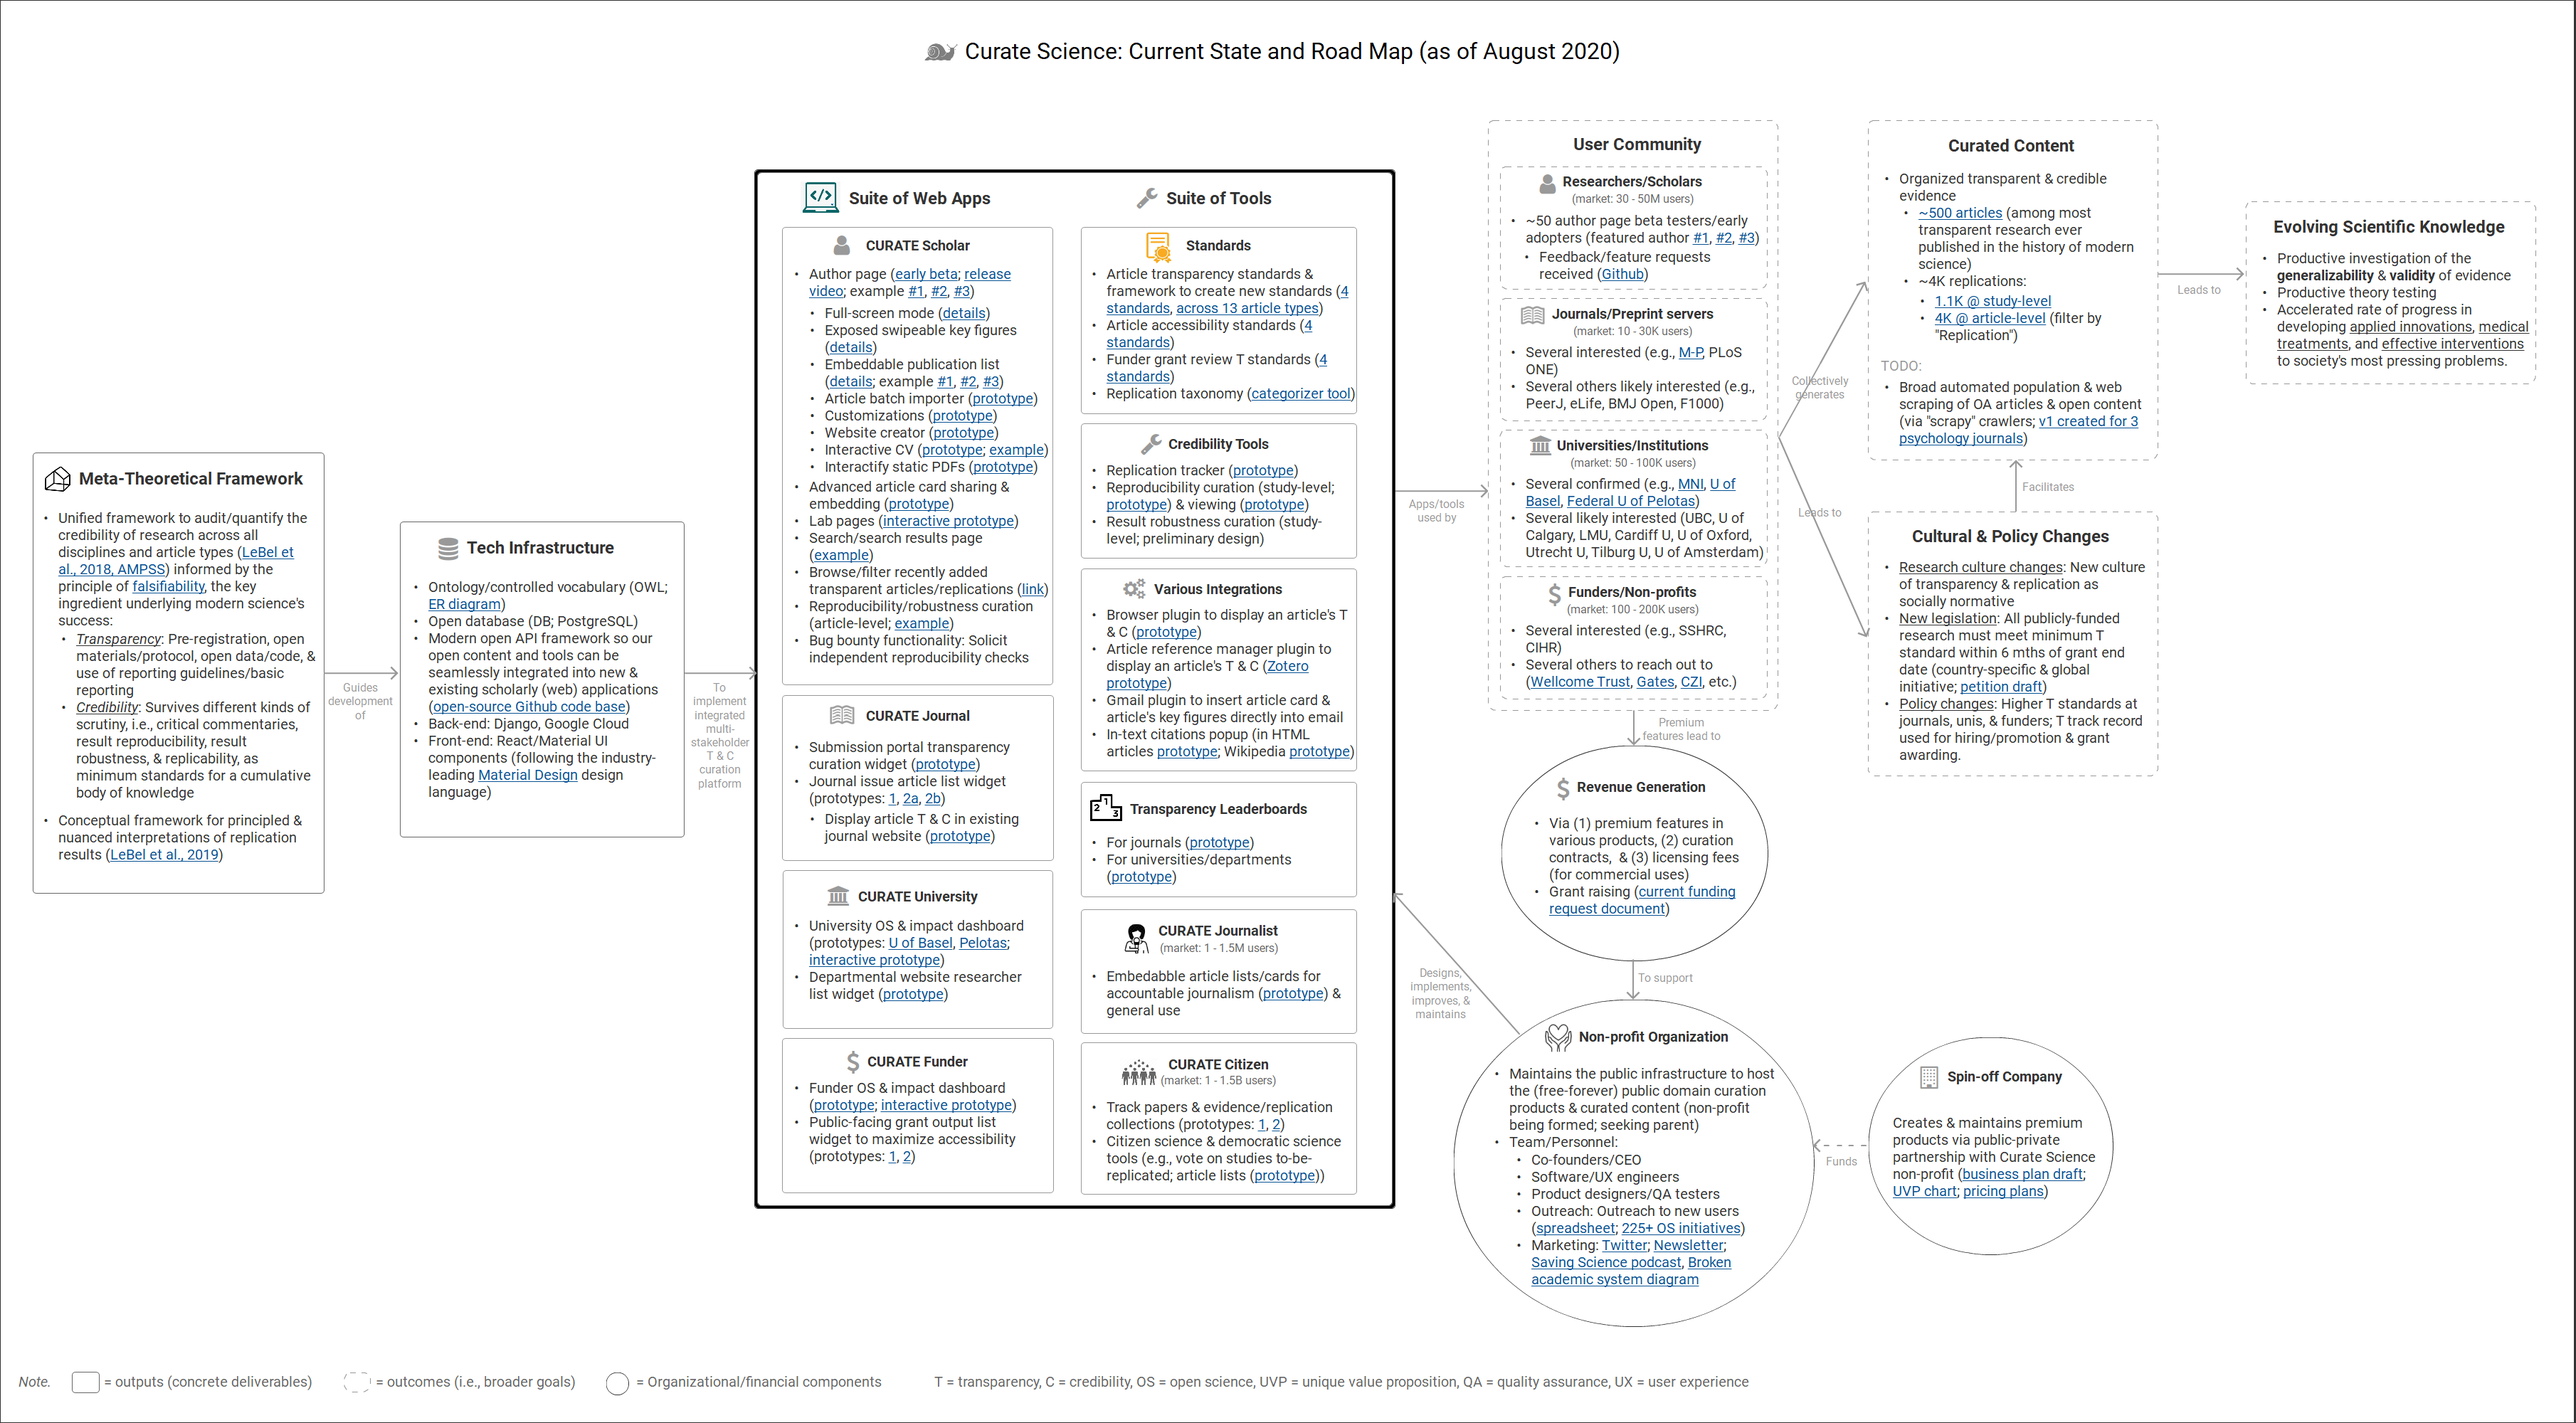
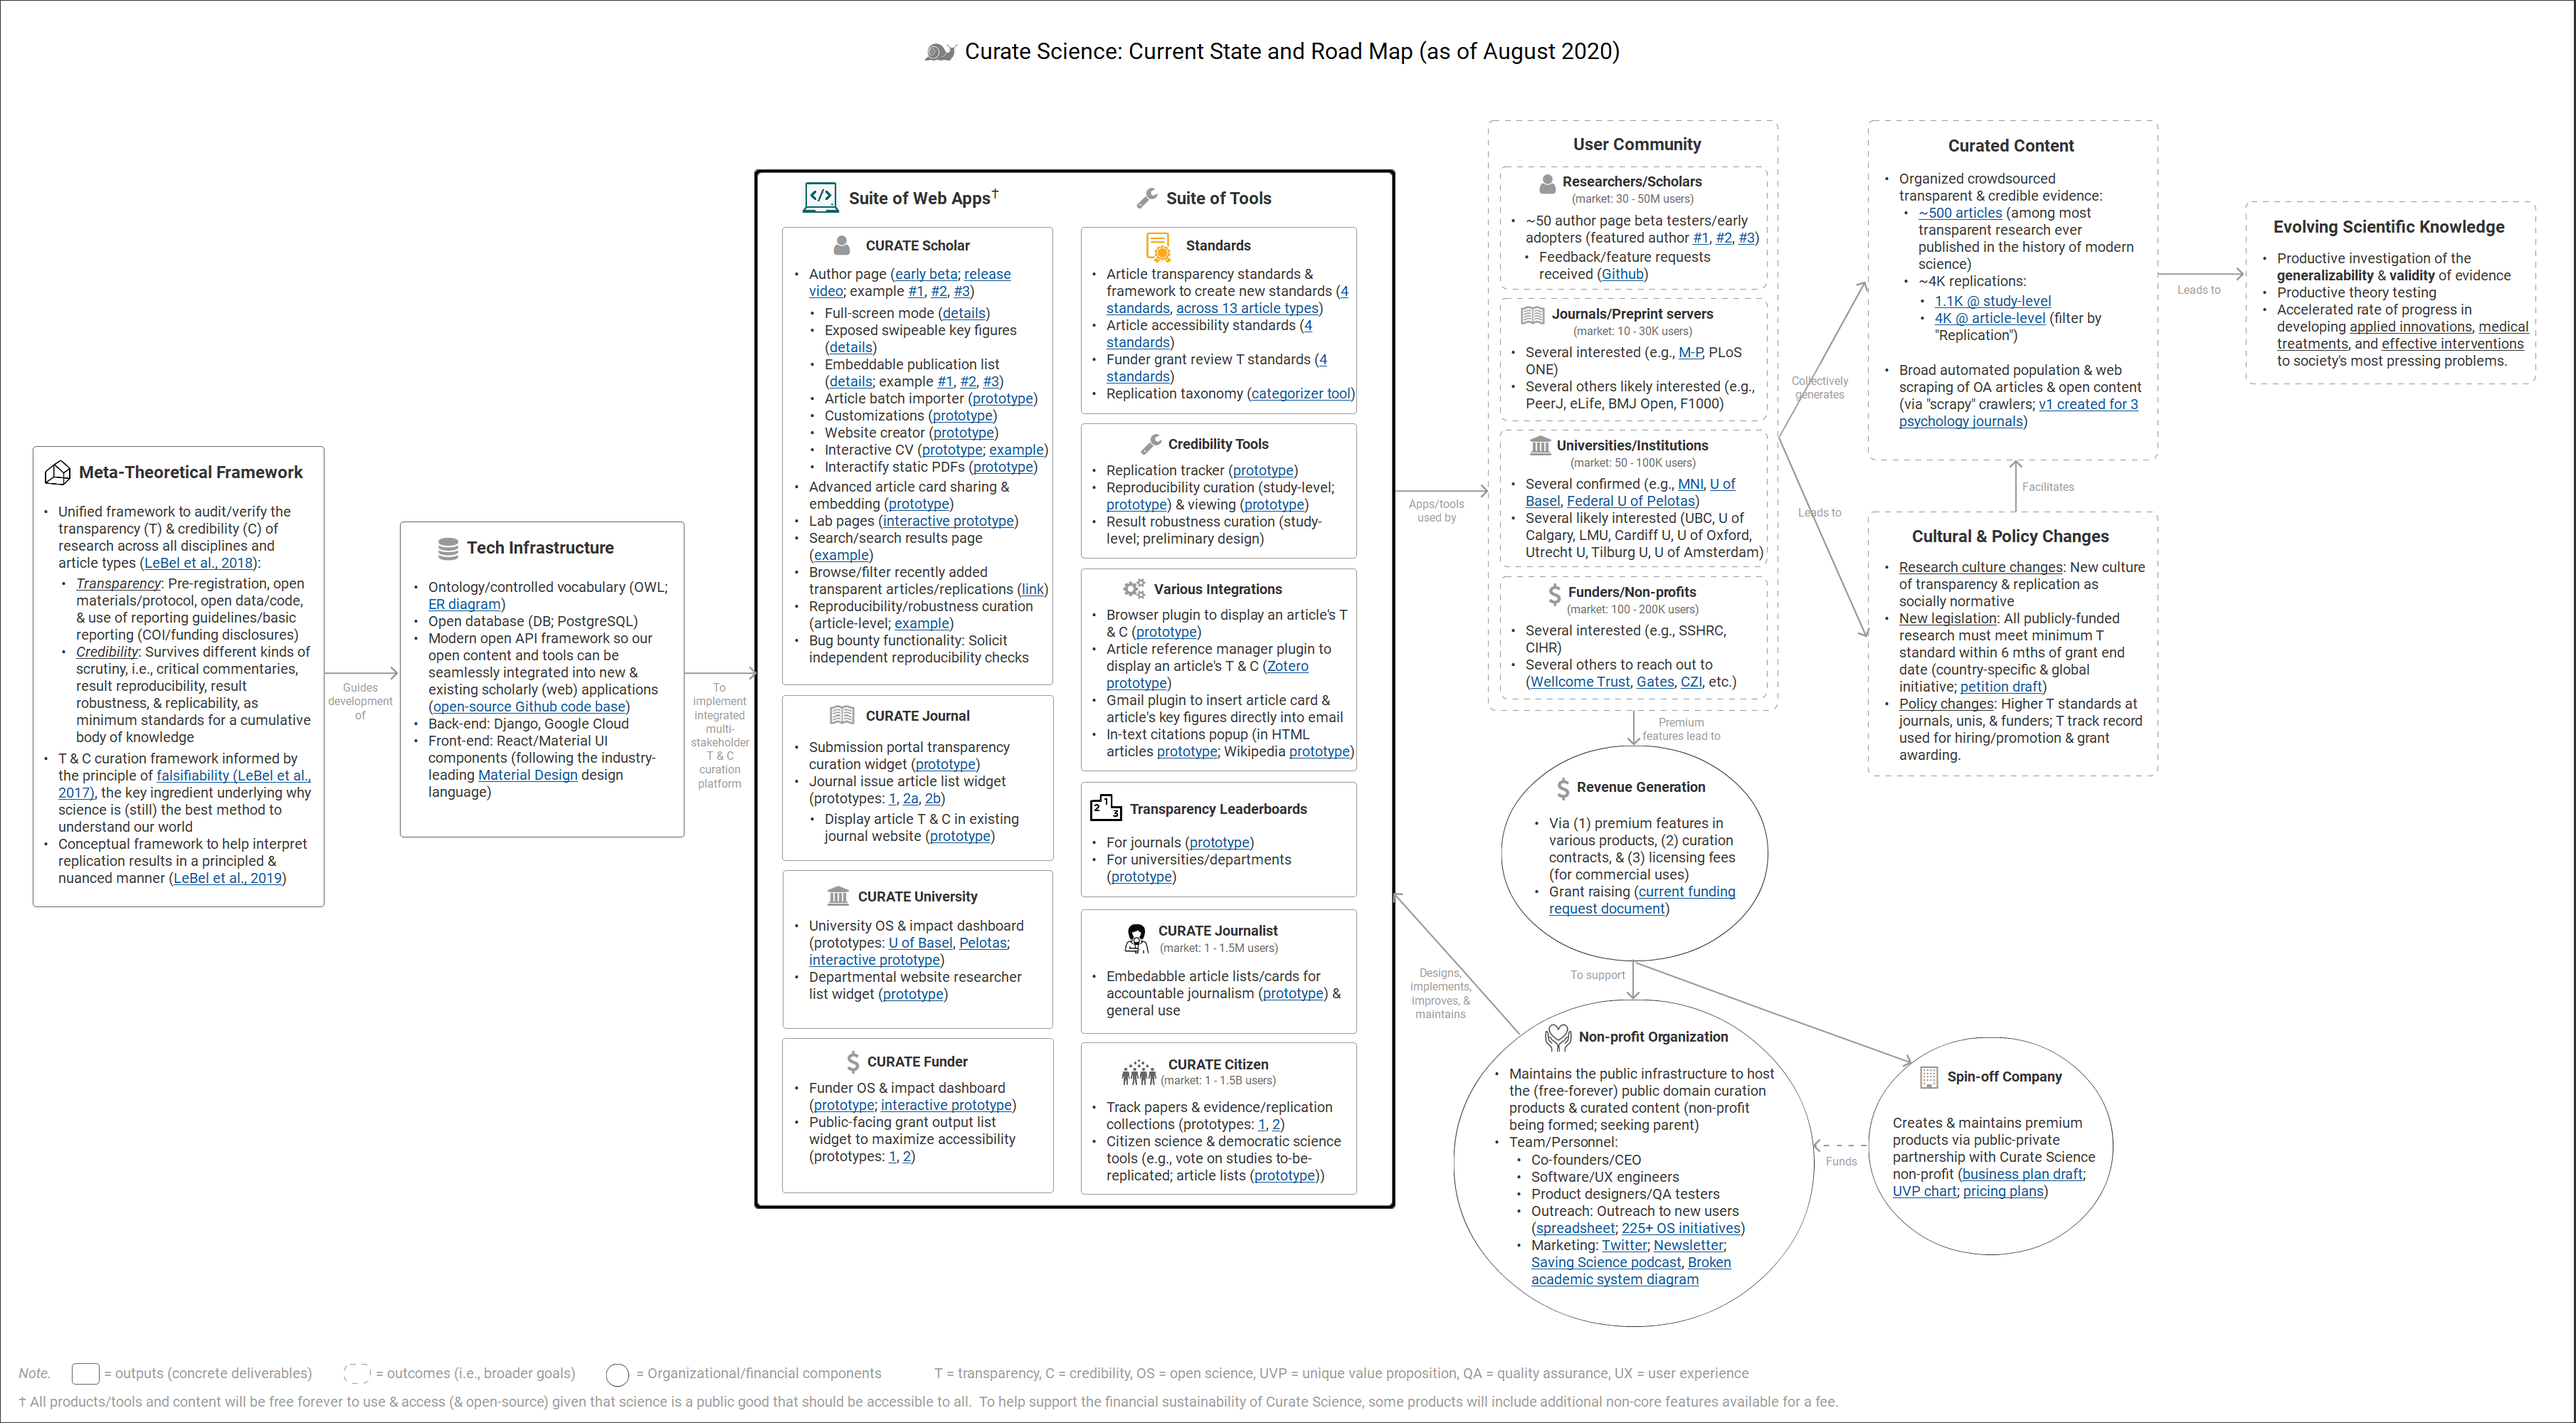
minor tweaks based on Vanpaemel feedback

diff --git a/public/cs/cs-state-of-and-roadmap.html b/public/cs/cs-state-of-and-roadmap.html
@@ -25,9 +25,9 @@ MM_reloadPage(true);
   <area shape="rect" coords="1140,905,1206,921" href="https://docs.google.com/spreadsheets/d/1DZtp05zFSl87_jbVbMFjC51w34VFqvCLiujaD2onSwQ/edit#gid=0" target="_blank">
   <area shape="rect" coords="655,817,755,831" href="https://etiennelebel.com/dashboards/funder-os-dashboard.html#home" target="_blank">
   <area shape="rect" coords="603,710,704,722" href="https://etiennelebel.com/dashboards/uni-os-dashboard.html#home" target="_blank">
-  <area shape="poly" coords="43,429,124,430,125,419,221,418,221,407,179,406,179,418,43,418" href="https://etiennelebel.com/documents/lebeletal(2018,ampss)a-unified-framework-to-quantify-the-credibility-of-scientific-findings.pdf" target="_blank">
-  <area shape="rect" coords="97,432,155,443" href="https://etiennelebel.com/documents/lbcl(2017,jpsp).pdf" target="_blank">
-  <area shape="rect" coords="78,630,168,644" href="https://open.lnu.se/index.php/metapsychology/article/view/843/1835" target="_blank">
+  <area shape="poly" coords="44,595,73,595,72,585,228,584,229,573,116,572,116,583,44,584" href="https://etiennelebel.com/documents/lbcl(2017,jpsp).pdf" target="_blank">
+  <area shape="rect" coords="106,413,192,424" href="https://etiennelebel.com/documents/lebeletal(2018,ampss)a-unified-framework-to-quantify-the-credibility-of-scientific-findings.pdf" target="_blank">
+  <area shape="rect" coords="126,647,216,661" href="https://open.lnu.se/index.php/metapsychology/article/view/843/1835" target="_blank">
   <area shape="rect" coords="322,520,469,532" href="https://github.com/ScienceCommons/curate_science" target="_blank">
   <area shape="rect" coords="320,443,377,457" href="https://etiennelebel.com/logos/curatescience_datamodel_v0.3.0.png" target="_blank">
   <area shape="rect" coords="354,570,434,585" href="https://material.io/" target="_blank">
@@ -93,7 +93,7 @@ MM_reloadPage(true);
   <area shape="rect" coords="1431,151,1496,165" href="https://curatescience.org/app/recent" target="_blank">
   <area shape="rect" coords="1441,231,1527,243" href="https://curatescience.org/app/recent" target="_blank">
   <area shape="rect" coords="1441,218,1531,230" href="https://curatescience.org/app/replications" target="_blank">
-  <area shape="poly" coords="1519,310,1597,307,1597,319,1512,320,1512,333,1417,334,1416,323,1507,320" href="https://github.com/dominklenda/Web-Scraping-Curate-Science-Platform-" target="_blank">
+  <area shape="poly" coords="1520,297,1598,294,1598,306,1513,307,1513,320,1418,321,1417,310,1508,307" href="https://github.com/dominklenda/Web-Scraping-Curate-Science-Platform-" target="_blank">
   <area shape="rect" coords="930,288,1009,301" href="https://curatescience.org/sitestatic/infographics/replication-taxonomy-v0.4.0.png" target="_blank">
   <area shape="rect" coords="723,342,772,354" href="https://curate-science-staging-2.appspot.com/app/author/etienne-p-lebel" target="_blank">
   <area shape="rect" coords="1249,255,1272,269" href="https://curatescience.org/sitestatic/infographics/10.0-journal-article-list-ABOUT-HD.png" target="_blank">
